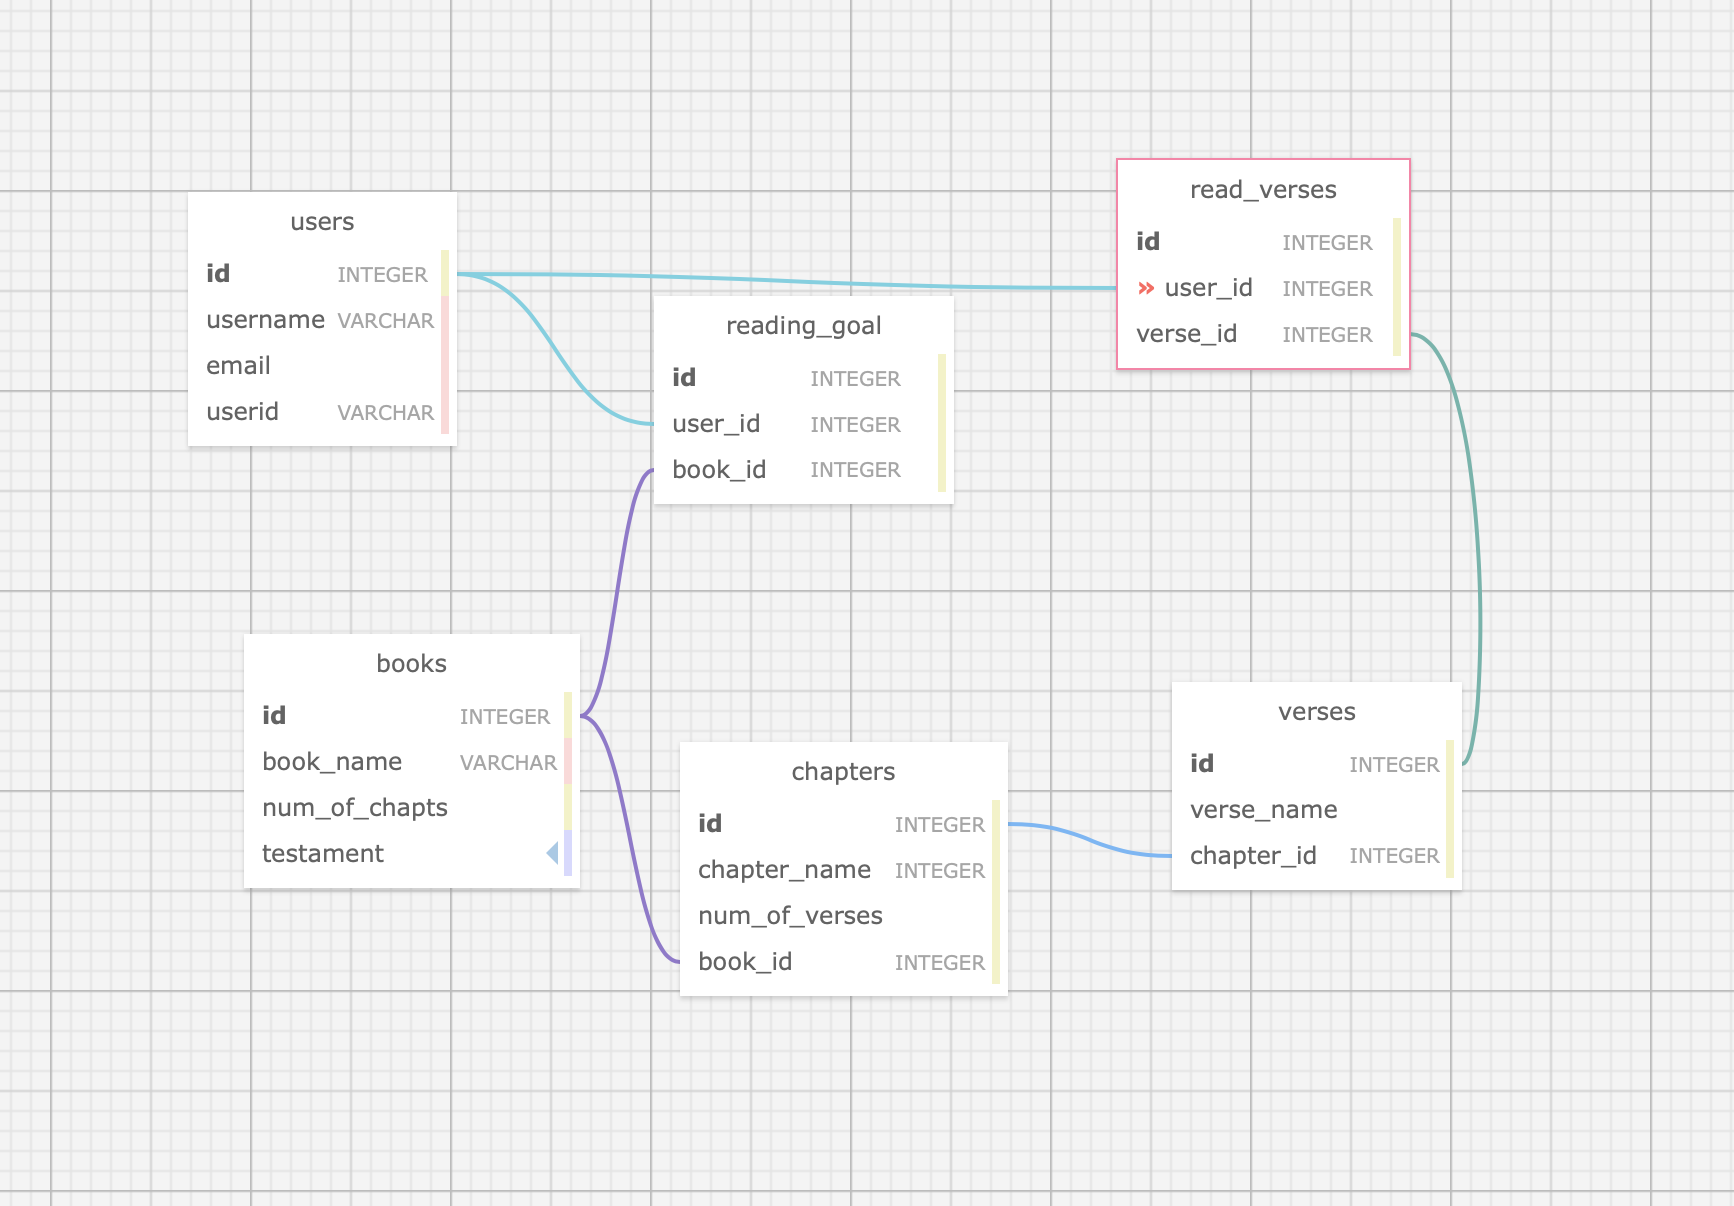
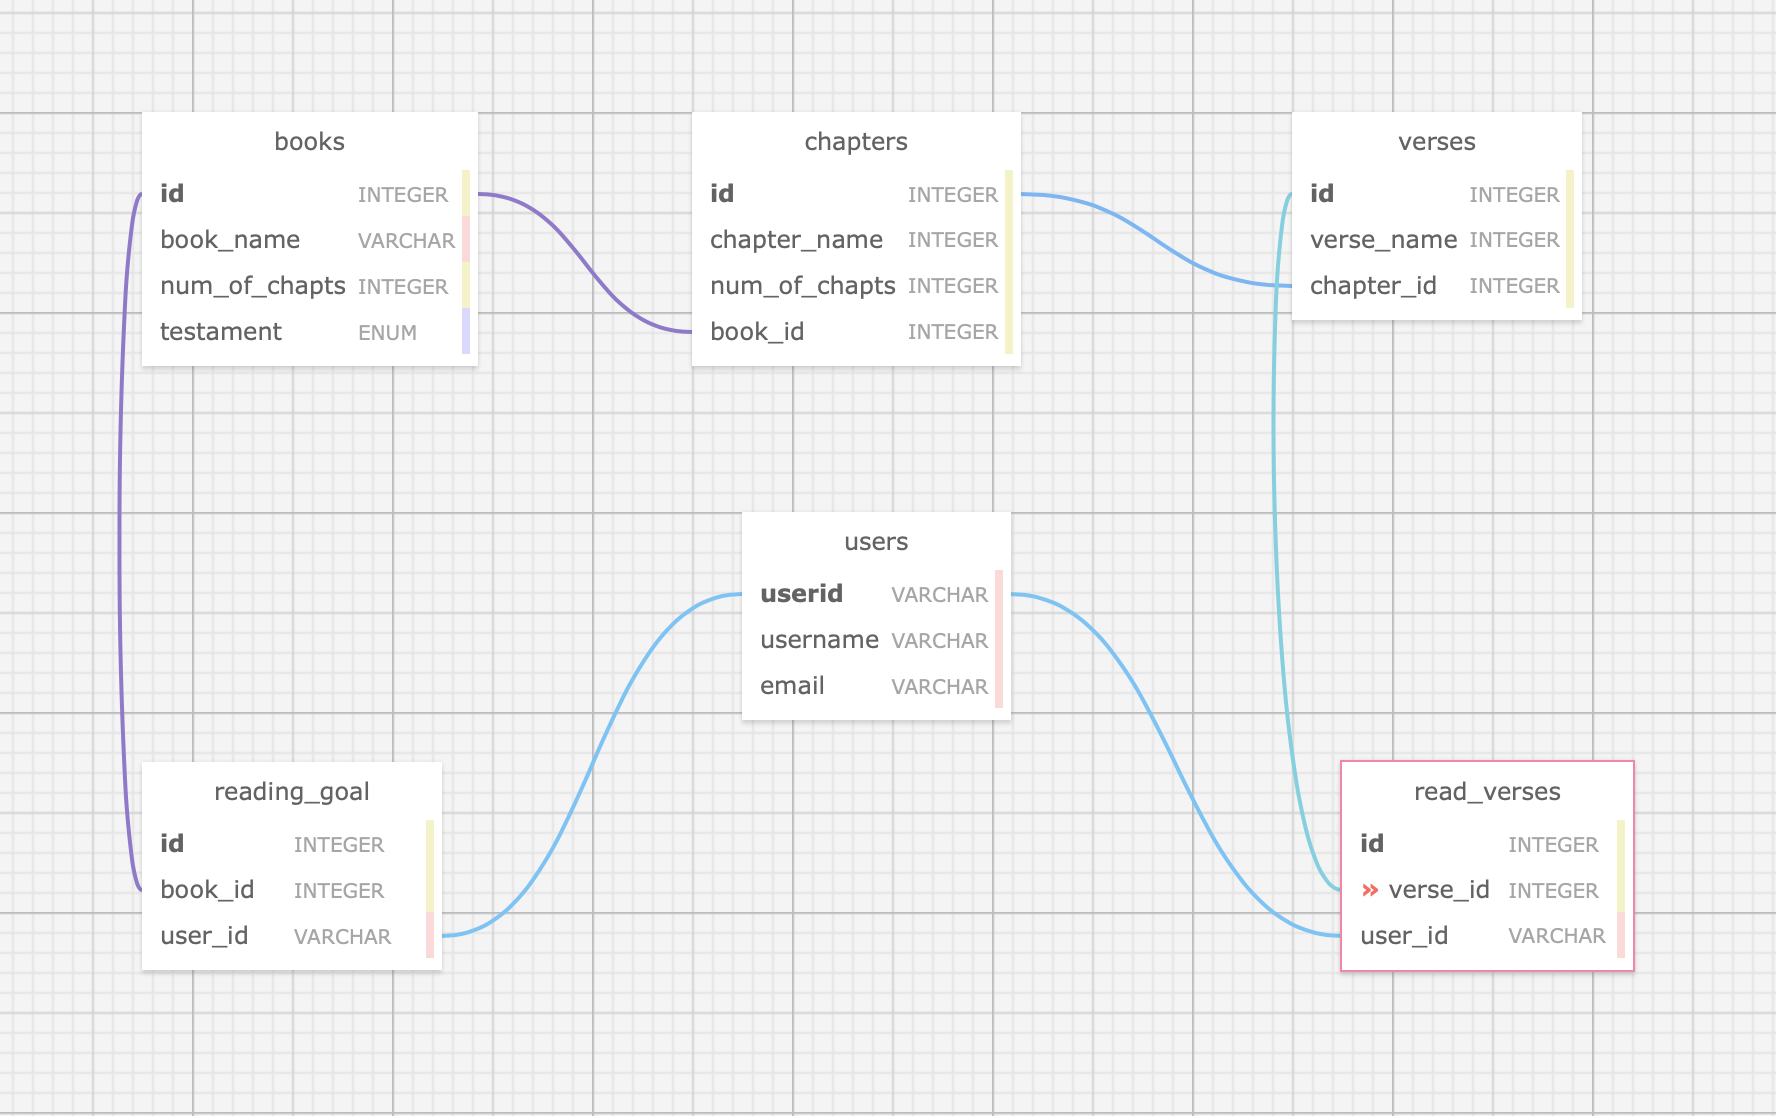
updated userid foreign keys

diff --git a/src/server/test/verses-service.spec.js b/src/server/test/verses-service.spec.js
@@ -67,4 +67,13 @@ describe('Verses Service object', () => {
             })
         })
     })
+    describe('getById()', () => {
+        it('shoud return undefined', () => {
+            return VersesService
+            .getById(db, 1)
+            .then(verses => {
+                expect(verses).to.be.undefined
+            })
+        })
+    })
 })

diff --git a/src/server/services/versesService.js b/src/server/services/versesService.js
@@ -3,7 +3,7 @@ const VersesService = {
         return knex.select('*').from('verses').limit(limit).offset(offset)
     },
     getById(knex, id) {
-        return knex('verses').where('id', id)
+        return knex('verses').where('id', id).first()
     },
     getByChapterAndName(knex, chapter_id, name) {
         return knex('verses').where({
